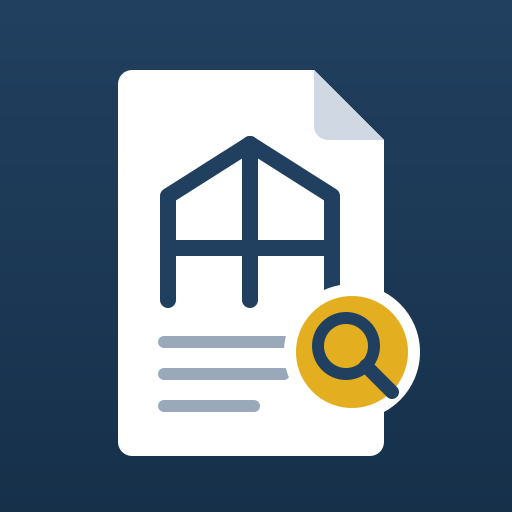
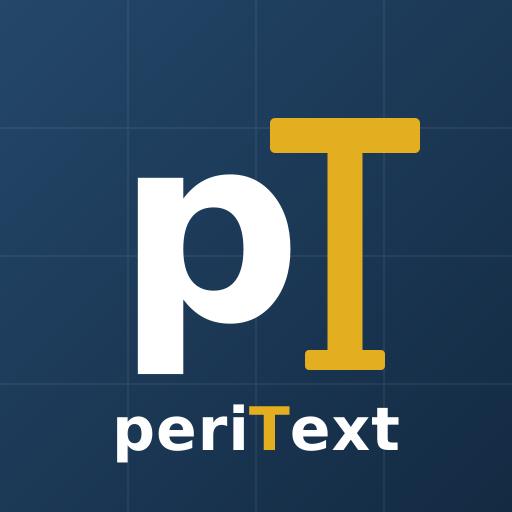
periText 1.30.1: grafia «periText» e novo ícone para o iPhone (monograma pT com o T em perfil estrutural)
Claude-Session: https://claude.ai/code/session_01WmKbB1zPqE2Pw3SiZDiLEV

diff --git a/relat/index.html b/relat/index.html
@@ -4,9 +4,9 @@
 <meta charset="utf-8">
 <meta name="viewport" content="width=device-width,initial-scale=1,viewport-fit=cover">
 <meta name="apple-mobile-web-app-capable" content="yes">
-<meta name="apple-mobile-web-app-title" content="PeriText">
+<meta name="apple-mobile-web-app-title" content="periText">
 <meta name="theme-color" content="#E3AE1F">
-<title>PeriText — Relatórios de peritagem de engenharia e construção</title>
+<title>periText — Relatórios de peritagem de engenharia e construção</title>
 <link rel="manifest" href="manifest.json">
 <link rel="apple-touch-icon" href="icon-180.png">
 <link rel="icon" type="image/png" href="icon-192.png">
@@ -757,15 +757,15 @@ function buildPdf({proc,settings,anoms,layout,withPhotos,photoCols,dateCom,withV
   objs[pagesId-1]=[enc(`<< /Type /Pages /Kids [${pages.map(p=>p.pid+' 0 R').join(' ')}] /Count ${pages.length} >>`)];
   const title=String(fileName||'Relatório de Peritagem').replace(/\.pdf$/i,'');
   objs[catalogId-1]=[enc(`<< /Type /Catalog /Pages ${pagesId} 0 R >>`)];
-  const info=add([enc(`<< /Title ${pstr(title)} /Producer (PeriText) >>`)]);
+  const info=add([enc(`<< /Title ${pstr(title)} /Producer (periText) >>`)]);
   const out=[enc('%PDF-1.4\n%\xE2\xE3\xCF\xD3\n')];let off=out[0].length;const xref=[];
   objs.forEach((parts,i)=>{xref.push(off);const h=enc(`${i+1} 0 obj\n`);out.push(h);off+=h.length;for(const u of parts){out.push(u);off+=u.length}const e=enc('\nendobj\n');out.push(e);off+=e.length});
   let x=`xref\n0 ${objs.length+1}\n0000000000 65535 f \n`+xref.map(o=>String(o).padStart(10,'0')+' 00000 n \n').join('');x+=`trailer\n<< /Size ${objs.length+1} /Root ${catalogId} 0 R /Info ${info} 0 R >>\nstartxref\n${off}\n%%EOF\n`;out.push(enc(x));
   const tot=out.reduce((s,u)=>s+u.length,0);const res=new Uint8Array(tot);let o=0;for(const u of out){res.set(u,o);o+=u.length}return res;
 }
 
-// ===== App: PeriText (antes «Relatório de Peritagem») =====
-const VERSION='1.30';const VERSION_DATA='2026-11-22';/* data da release: atualizar sempre com VERSION */
+// ===== App: periText (antes «Relatório de Peritagem») =====
+const VERSION='1.30.1';const VERSION_DATA='2026-11-22';/* data da release: atualizar sempre com VERSION */
 const DEF_PARTES=[{n:1,nome:'Autor'},{n:2,nome:'Réu'},{n:3,nome:'Tribunal'},{n:4,nome:'Perito (constatadas no local)'},{n:5,nome:'Solicitante'}];
 const parteSig=(p,n)=>{const nm=String(parteNome(p,n)||'').normalize('NFD').replace(/[\u0300-\u036f]/g,'').trim().toUpperCase();return /^PERIT/.test(nm)?'P':/^AUTOR/.test(nm)?'A':/^REU/.test(nm)?'R':/^TRIB/.test(nm)?'T':/^SOLIC/.test(nm)?'S':(nm[0]||String(n))};
 const parteOf=(p,a)=>a.parte??(a.origem==='local'?(p.parteLocal??4):parteLista(p));
@@ -1095,10 +1095,10 @@ const PSTEPS=[['proc','1','Processo'],['anom','2','Situações'],['insp','3','In
 function stepState(p){const r=ensureRel(p),W=relCheck(p),o={proc:0,anom:0,insp:0,anal:0,orc:0,rel:0};for(const w of W){if(/1 · Processo/.test(w))o.proc++;else if(/3 · Inspeção/.test(w))o.insp++;else if(/2 · Situações/.test(w))o.anom++;else if(/4 · Análise/.test(w))o.anal++;else o.rel++}
   const an=p.anomalias;if(an.some(a=>!String(a.descricao||'').trim()))o.anom++;o.anal+=an.filter(a=>!isDone(a)).length;if(!mtxt(r,'passos')&&r.incPassos!==false)o.anal++;return o}
 function render(){
-  document.title=`PeriText · ${VERSION}`;
+  document.title=`periText · ${VERSION}`;
   const p=cur();if(!p&&PVIEWS.includes(S.view))S.view='home';
   const crumbs=p&&S.view!=='home'&&S.view!=='defs'?`${esc(p.codigo||'(sem código)')}${S.sub==='ficha'&&curA()?' › '+anCode(p,curA()):''}`:'';
-  $('#hdr').innerHTML=`<h1 data-act="go" data-v="home">PeriText</h1><span class="ver">v${VERSION} · ${VERSION_DATA.split('-').reverse().join('/')}</span><div class="crumbs">${crumbs}</div>${p&&S.view!=='home'&&S.view!=='defs'?`<button class="mini undobtn" data-act="undo" title="Desfazer (Ctrl/⌘+Z)" aria-label="Desfazer" ${hk(p).u.length?'':'disabled'}>↶</button><button class="mini undobtn" data-act="redo" title="Refazer (Ctrl/⌘+Y)" aria-label="Refazer" ${hk(p).r.length?'':'disabled'}>↷</button>`:''}<button class="mini menubtn ${bkWarn()?'dot':''}" data-act="menu" aria-label="Menu">☰ Menu</button>`;
+  $('#hdr').innerHTML=`<h1 data-act="go" data-v="home">periText</h1><span class="ver">v${VERSION} · ${VERSION_DATA.split('-').reverse().join('/')}</span><div class="crumbs">${crumbs}</div>${p&&S.view!=='home'&&S.view!=='defs'?`<button class="mini undobtn" data-act="undo" title="Desfazer (Ctrl/⌘+Z)" aria-label="Desfazer" ${hk(p).u.length?'':'disabled'}>↶</button><button class="mini undobtn" data-act="redo" title="Refazer (Ctrl/⌘+Y)" aria-label="Refazer" ${hk(p).r.length?'':'disabled'}>↷</button>`:''}<button class="mini menubtn ${bkWarn()?'dot':''}" data-act="menu" aria-label="Menu">☰ Menu</button>`;
   const ST=p&&PVIEWS.includes(S.view)?stepState(p):{};const OPT=v=>v==='orc'&&!orcHas(p);$('#steps').innerHTML=p&&PVIEWS.includes(S.view)?PSTEPS.map(([v,n,t])=>`<button class="${S.view===v?'on':''}" data-act="go" data-v="${v}" title="${ST[v]?ST[v]+' por completar':'completo'}"><b>${n} <i class="stp ${OPT(v)?'':ST[v]?'w':'k'}">${OPT(v)?'○':ST[v]?'●':'✓'}</i></b> ${t}</button>`).join(''):'';{const on=document.querySelector('#steps button.on');if(on&&on.scrollIntoView)on.scrollIntoView({inline:'nearest',block:'nearest'})}
   $('#steps').style.display=$('#steps').innerHTML?'':'none';
   let html;
@@ -1509,7 +1509,7 @@ function vDefs(){
   ${blk('D · Fotografias')}
   ${sec('dp','Resolução',`<label>Resolução das fotos</label><div class="seg">${[[50,'50 KB'],[150,'150 KB'],[300,'300 KB'],[500,'500 KB']].map(([v,t])=>`<button class="${settings.photoKB==v?'on':''}" data-act="setNum" data-k="photoKB" data-v="${v}">${t}</button>`).join('')}</div><p class="muted">50 mínima · 150 baixa (recomendada) · 300 razoável · 500 média. O número máximo de fotos por assunto escolhe-se em «Fotografias e valores no Word» (acima) ou em 6 · Relatório.</p>`)}
   ${blk('E · Cópias de segurança')}${bkBarHTML()}
-  <p class="muted center">PeriText — relatórios de peritagem de engenharia e construção · v${VERSION} · ${VERSION_DATA.split('-').reverse().join('/')}</p>`;
+  <p class="muted center">periText — relatórios de peritagem de engenharia e construção · v${VERSION} · ${VERSION_DATA.split('-').reverse().join('/')}</p>`;
 }
 
 
@@ -2787,7 +2787,7 @@ document.addEventListener('click',async e=>{{const _x=e.target.closest&&e.target
     case 'undo':return doUndo(-1);case 'redo':return doUndo(1);case 'menu':openMenu();return;
     case 'menuClose':return;
     case 'quit':await quitApp();return;
-    case 'help':{const m=document.createElement('div');m.className='modal';m.innerHTML=`<div class="box helpbox"><div class="btns" style="margin-top:0;justify-content:space-between"><b style="font-size:17px">Como funciona o PeriText</b><button class="secondary mini" data-x>✕</button></div>${HELP_HTML}</div>`;m.addEventListener('click',e=>{if(e.target===m||e.target.closest('[data-x]'))m.remove()});document.body.appendChild(m);return}
+    case 'help':{const m=document.createElement('div');m.className='modal';m.innerHTML=`<div class="box helpbox"><div class="btns" style="margin-top:0;justify-content:space-between"><b style="font-size:17px">Como funciona o periText</b><button class="secondary mini" data-x>✕</button></div>${HELP_HTML}</div>`;m.addEventListener('click',e=>{if(e.target===m||e.target.closest('[data-x]'))m.remove()});document.body.appendChild(m);return}
     case 'filtQClear':S.filt.q='';S.scrollTop=window.scrollY;break;
     case 'addParte':{const n=Math.max(0,...p.partes.map(x=>+x.n))+1;p.partes.push({n,nome:'Parte '+n});await saveProc();S.scrollTop=window.scrollY;break}
     case 'delParte':{const x=p.partes[+el.dataset.i];const k=p.anomalias.filter(a=>parteOf(p,a)==x.n).length;if(k)return toast(`A parte ${x.n} tem ${k} anomalia(s) — mude-as primeiro de parte.`,1);if(p.partes.length<2)return;p.partes.splice(+el.dataset.i,1);await saveProc();S.scrollTop=window.scrollY;break}

diff --git a/relat/sw.js b/relat/sw.js
@@ -1,6 +1,6 @@
 // Relatório de Peritagem — service worker: guarda a app no aparelho para funcionar sem rede.
 // Estratégia "rede primeiro": com rede, vai sempre buscar a versão mais recente; sem rede, usa a cópia guardada.
-const CACHE = 'relat-anomalias-v8';
+const CACHE = 'relat-anomalias-v9';
 const ASSETS = ['./', 'index.html', 'manifest.json', 'icon-180.png', 'icon-192.png', 'icon-512.png'];
 self.addEventListener('install', e => {
   e.waitUntil(caches.open(CACHE).then(c => c.addAll(ASSETS)).then(() => self.skipWaiting()));

diff --git a/docs/regras/README.md b/docs/regras/README.md
@@ -143,4 +143,4 @@ Cada app mostra na régua (cabeçalho) a versão **e a data da release**, ex.: `
 - **Custo visível** (v1.1): cada análise guarda os tokens que o serviço indica (`usage`) e mostra o custo estimado (tabela de preços por modelo na app, USD); a ficha soma o total da situação (reanálises incluídas) e o cartão do Relatório soma o gasto do processo. O valor faturado é o da consola do fornecedor.
 
 
-> Nota (23/11/2026): a app «Relatório de Peritagem» (pasta `relat`) passou a chamar-se **PeriText** — relatórios de peritagem de engenharia e construção. A pasta e os endereços mantêm-se.
+> Nota (23/11/2026): a app «Relatório de Peritagem» (pasta `relat`) passou a chamar-se **periText** — relatórios de peritagem de engenharia e construção. A pasta e os endereços mantêm-se.
